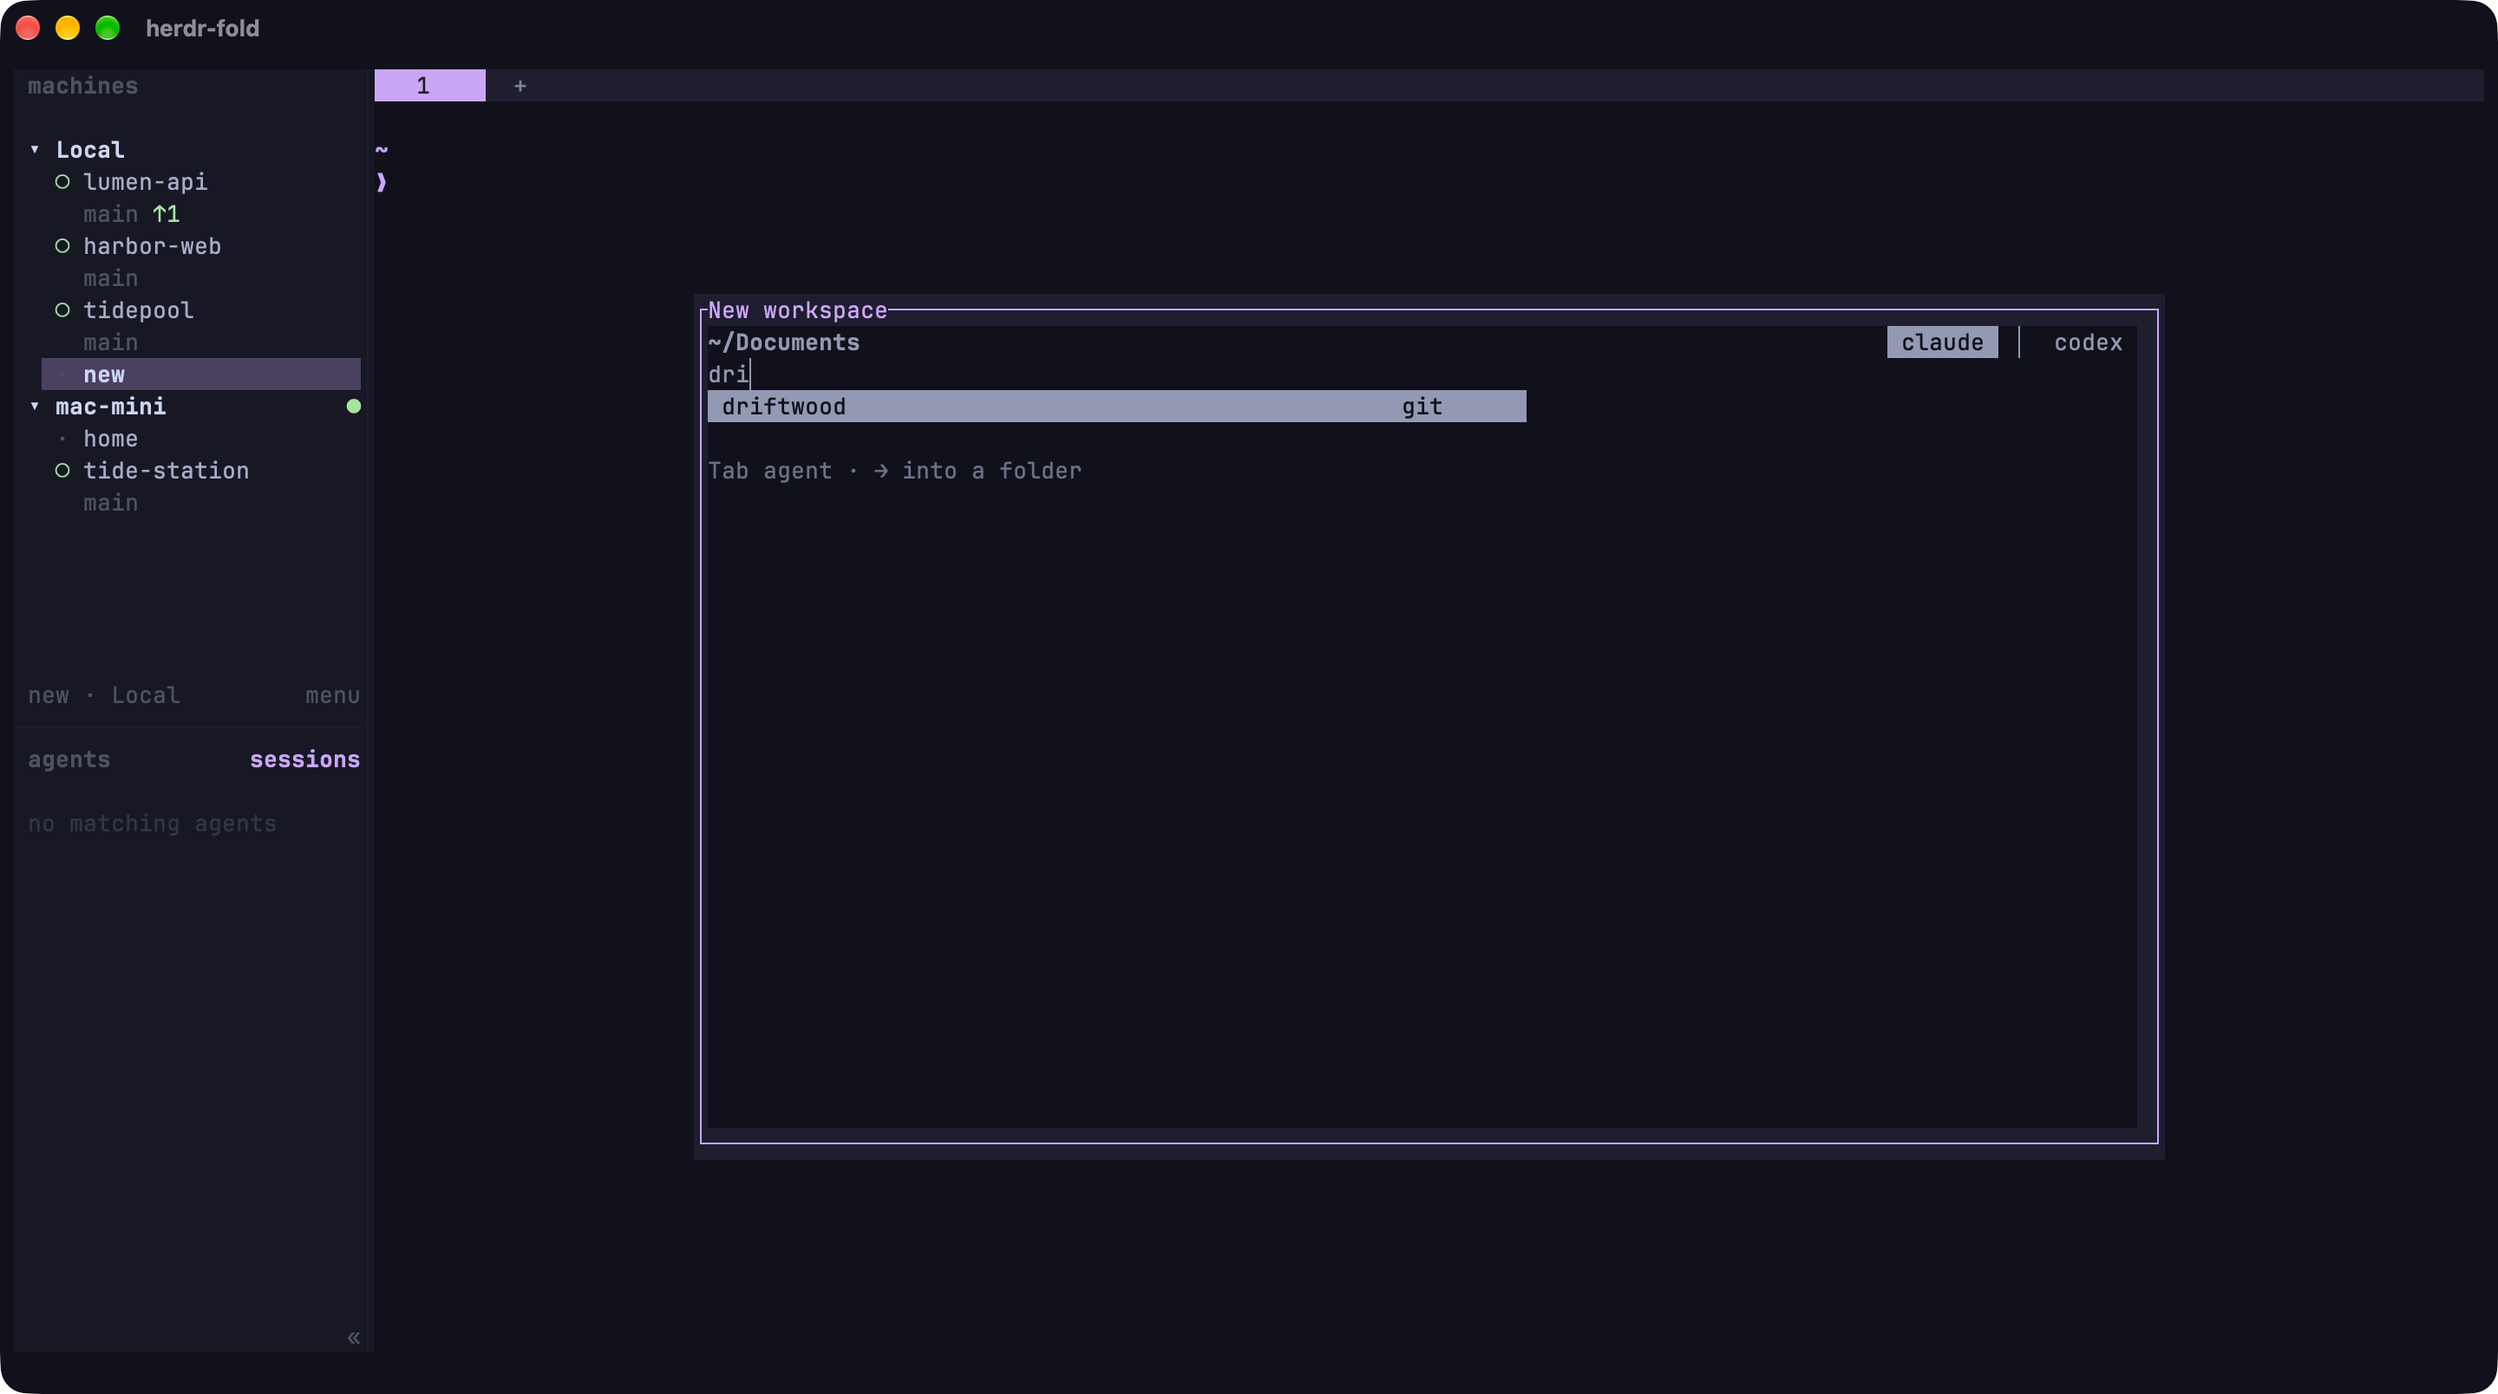
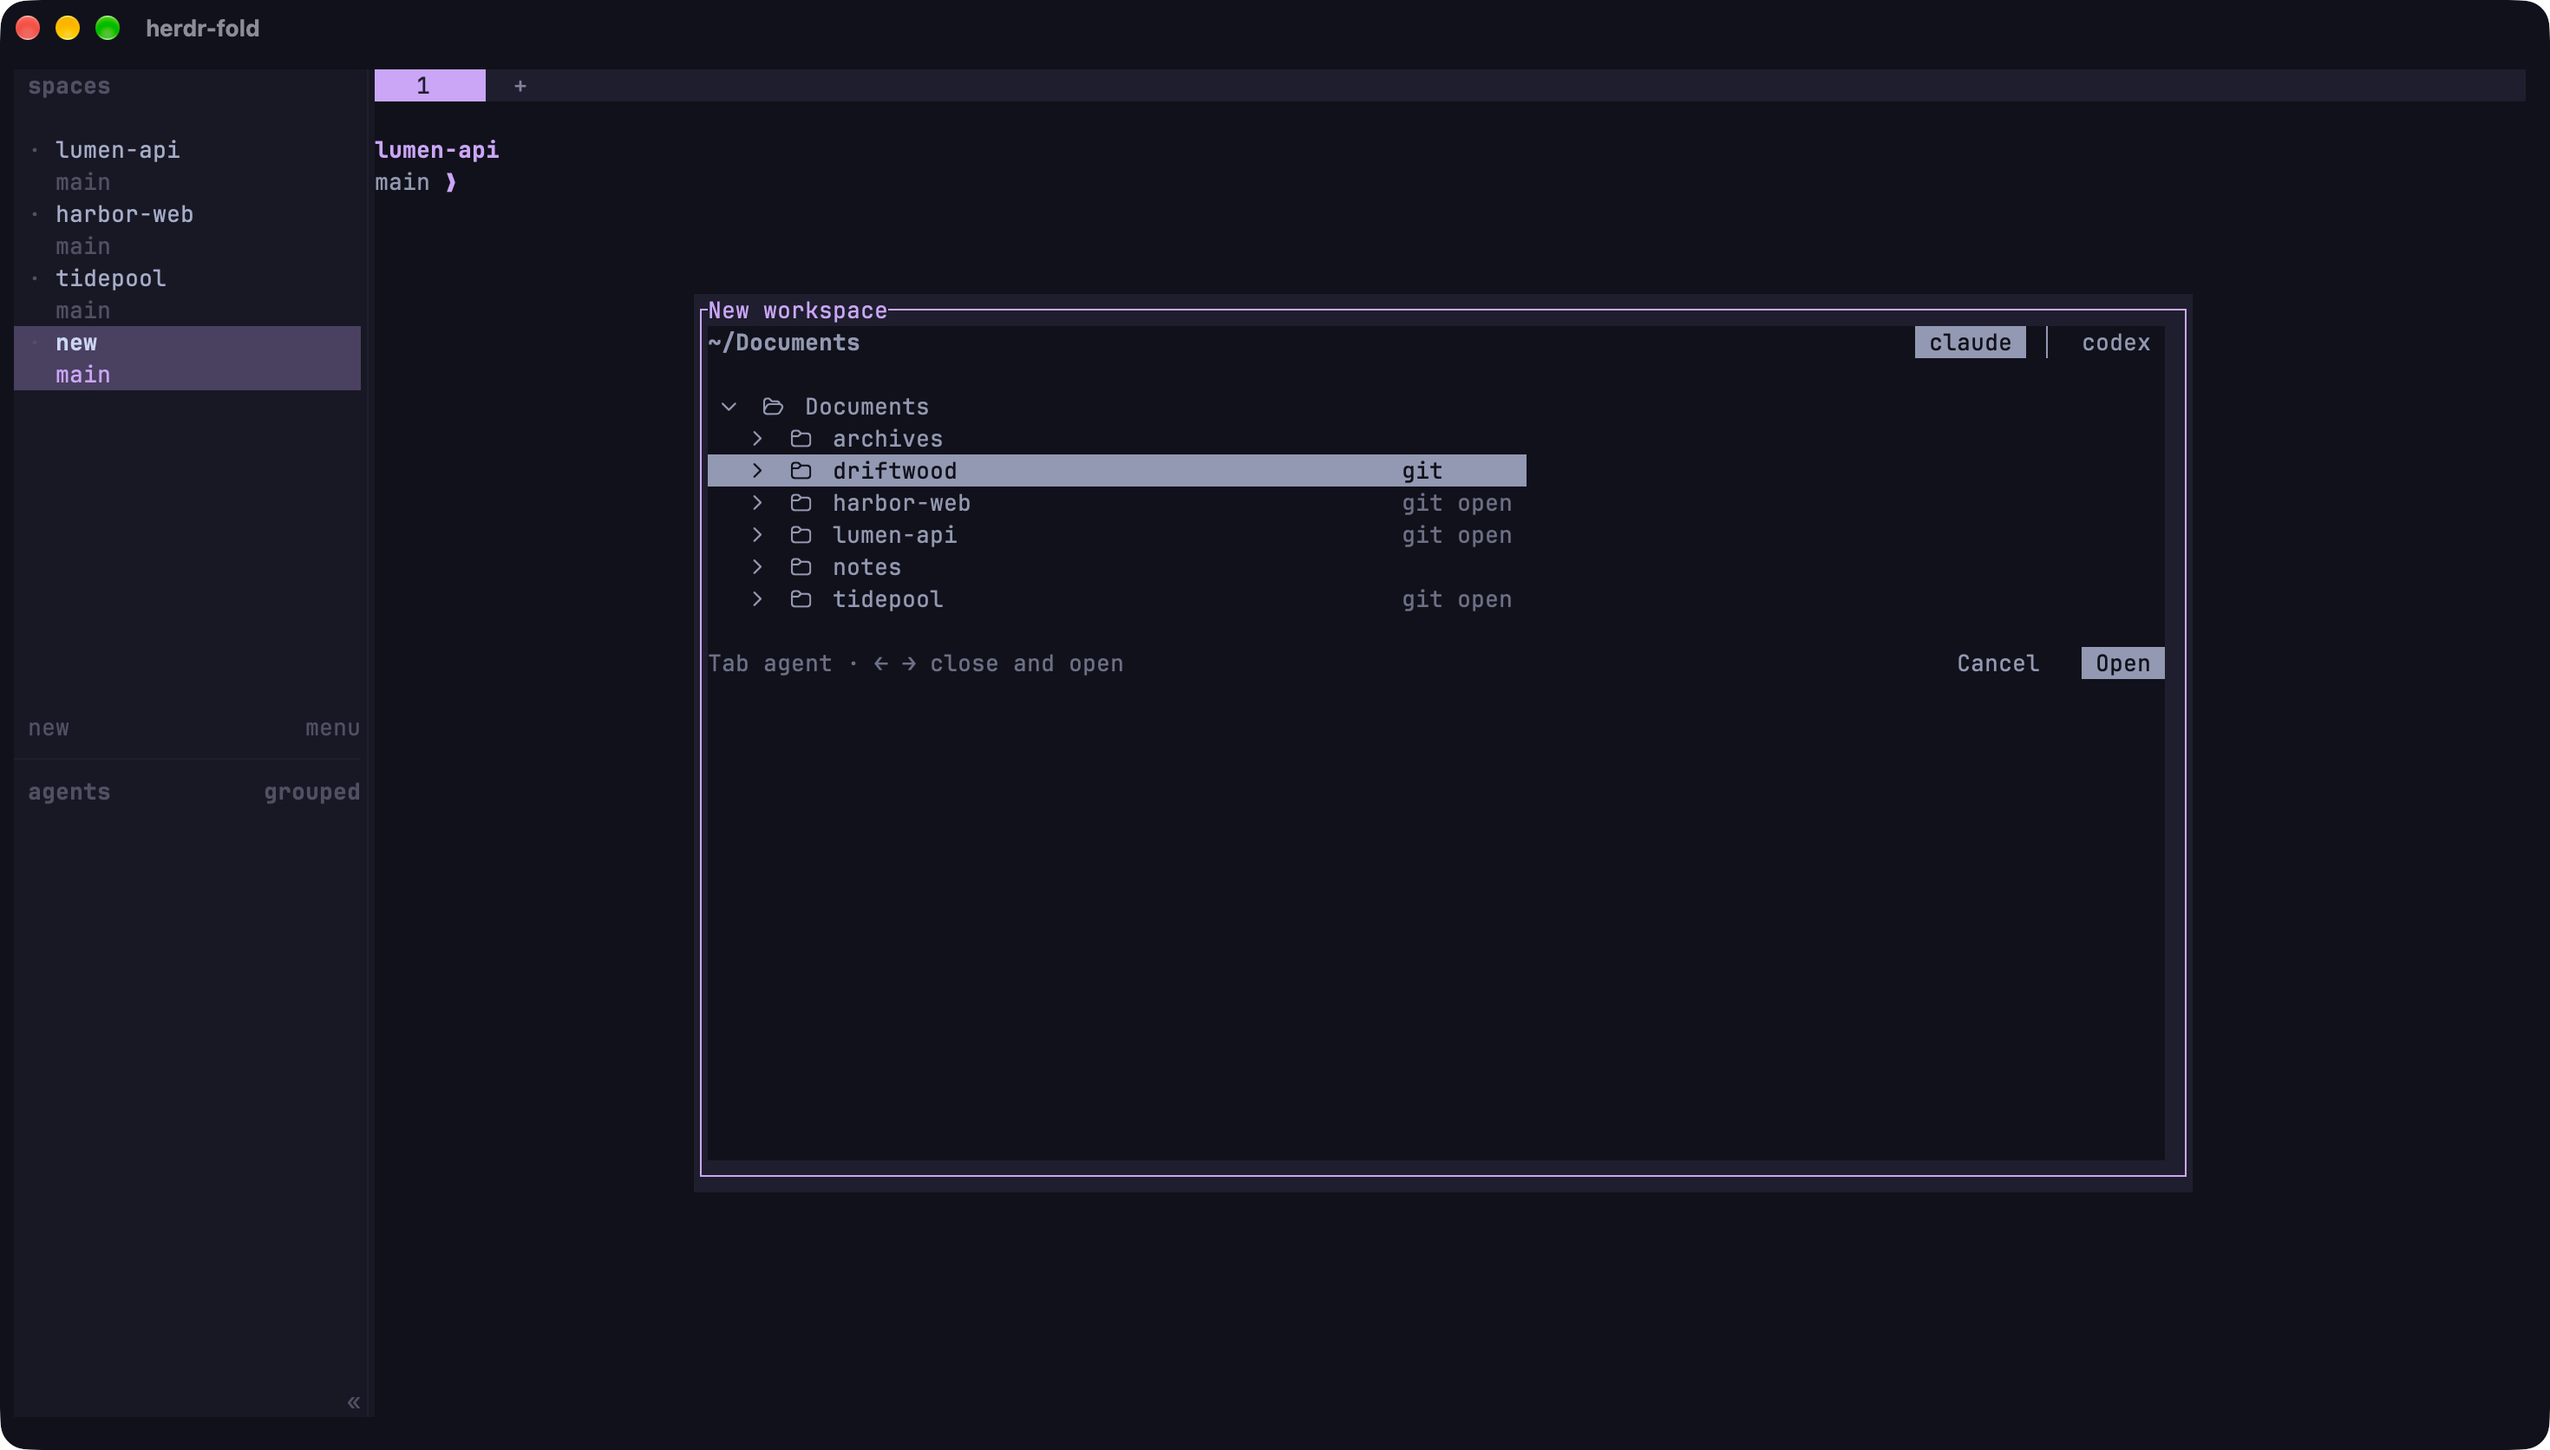
docs: show the folder picker as it is now
- Retake new-workspace.webp from a demo with invented names: the tree,
  Cancel and Open, in place of the list with the . row

diff --git a/docs/usage.md b/docs/usage.md
@@ -15,8 +15,8 @@ One workspace per repo:
 3. Enter, **Open** or a double click opens the workspace, or jumps to the one the folder already has. Esc or
    **Cancel** goes back to the workspace you came from.
 
-![The folder picker over the new workspace: "dri" typed, driftwood chosen, Claude or Codex at its top
-right](media/new-workspace.webp)
+![The folder picker over the new workspace: Documents as a tree, driftwood chosen, Claude or Codex at its top
+right, Cancel and Open at the bottom](media/new-workspace.webp)
 
 The workspace's main tab is named after the folder (the home folder's is `home`): the agent on the left, the
 Conversations column, and on the right the sidebar above a terminal. Drag the right column's edge to resize it in every
